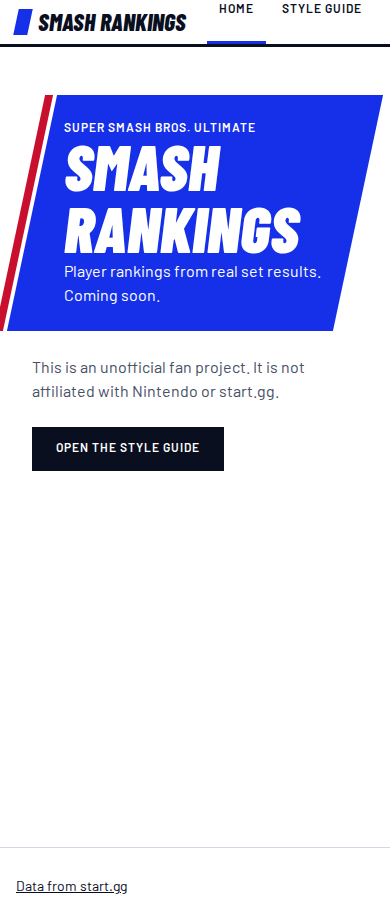
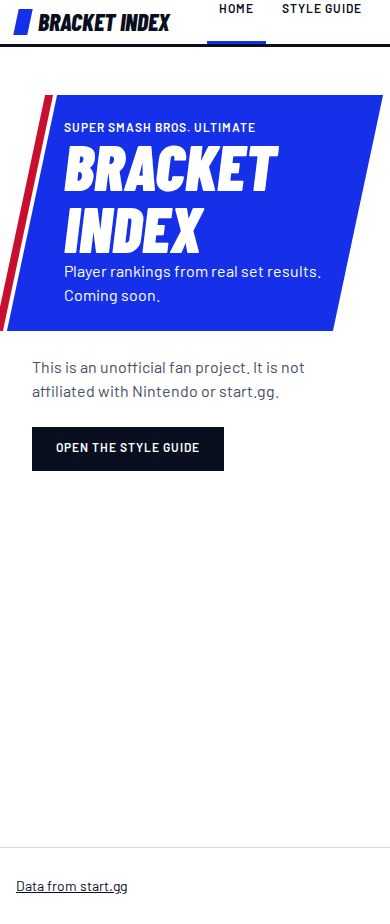
feat(app): use neutral working title "Bracket Index" (blueprint decision 8), refresh screenshots
Claude-Session: https://claude.ai/code/session_01EmiPNYLaxRfYJT2qzBUjng

Changed region(s): [[0.1538, 0.1515, 0.7692, 0.2727], [0.0923, 0.0, 0.4923, 0.0606]]

diff --git a/apps/app/src/app/index.tsx b/apps/app/src/app/index.tsx
@@ -12,7 +12,7 @@ import {
 } from "@sr/ui";
 import { Page } from "../components/Page";
 
-const TITLE = "Smash Rankings";
+const TITLE = "Bracket Index";
 const DESCRIPTION =
   "Live Super Smash Bros. Ultimate player rankings computed from start.gg results. Unofficial fan project.";
 
@@ -32,7 +32,7 @@ export default function Home() {
             Super Smash Bros. Ultimate
           </BodyText>
           <DisplayText variant="display" level={1} color={colors.white}>
-            Smash Rankings
+            Bracket Index
           </DisplayText>
           <BodyText color={colors.white}>
             Player rankings from real set results. Coming soon.

diff --git a/e2e/tests/pages.spec.ts b/e2e/tests/pages.spec.ts
@@ -2,8 +2,8 @@ import AxeBuilder from "@axe-core/playwright";
 import { expect, test, type Page } from "@playwright/test";
 
 const routes = [
-  { path: "/", title: "Smash Rankings", heading: "Smash Rankings" },
-  { path: "/style-guide", title: "Style guide | Smash Rankings", heading: "Style guide" },
+  { path: "/", title: "Bracket Index", heading: "Bracket Index" },
+  { path: "/style-guide", title: "Style guide | Bracket Index", heading: "Style guide" },
 ] as const;
 
 async function expectNoSeriousViolations(page: Page) {

diff --git a/apps/app/src/app/style-guide.tsx b/apps/app/src/app/style-guide.tsx
@@ -17,8 +17,8 @@ import {
 import { Page } from "../components/Page";
 import { Section } from "../components/Section";
 
-const TITLE = "Style guide | Smash Rankings";
-const DESCRIPTION = "Type, color, angled panels, dense stats, and motion for Smash Rankings.";
+const TITLE = "Style guide | Bracket Index";
+const DESCRIPTION = "Type, color, angled panels, dense stats, and motion for Bracket Index.";
 
 // Obviously fake sample players.
 const SAMPLE_ROWS = [

diff --git a/apps/app/src/app/_layout.tsx b/apps/app/src/app/_layout.tsx
@@ -33,7 +33,7 @@ export default function RootLayout() {
     <SafeAreaProvider>
       <Head>
         <meta name="theme-color" content={colors.white} />
-        <meta property="og:site_name" content="Smash Rankings" />
+        <meta property="og:site_name" content="Bracket Index" />
         <meta property="og:type" content="website" />
       </Head>
       <StatusBar style="dark" />

diff --git a/apps/app/src/components/AppHeader.tsx b/apps/app/src/components/AppHeader.tsx
@@ -27,7 +27,7 @@ export function AppHeader() {
       <View style={styles.brand}>
         <View aria-hidden style={styles.mark} />
         <DisplayText variant="h3" level={null} color={colors.ink}>
-          Smash Rankings
+          Bracket Index
         </DisplayText>
       </View>
       <View role="navigation" aria-label="Primary" style={styles.nav}>
